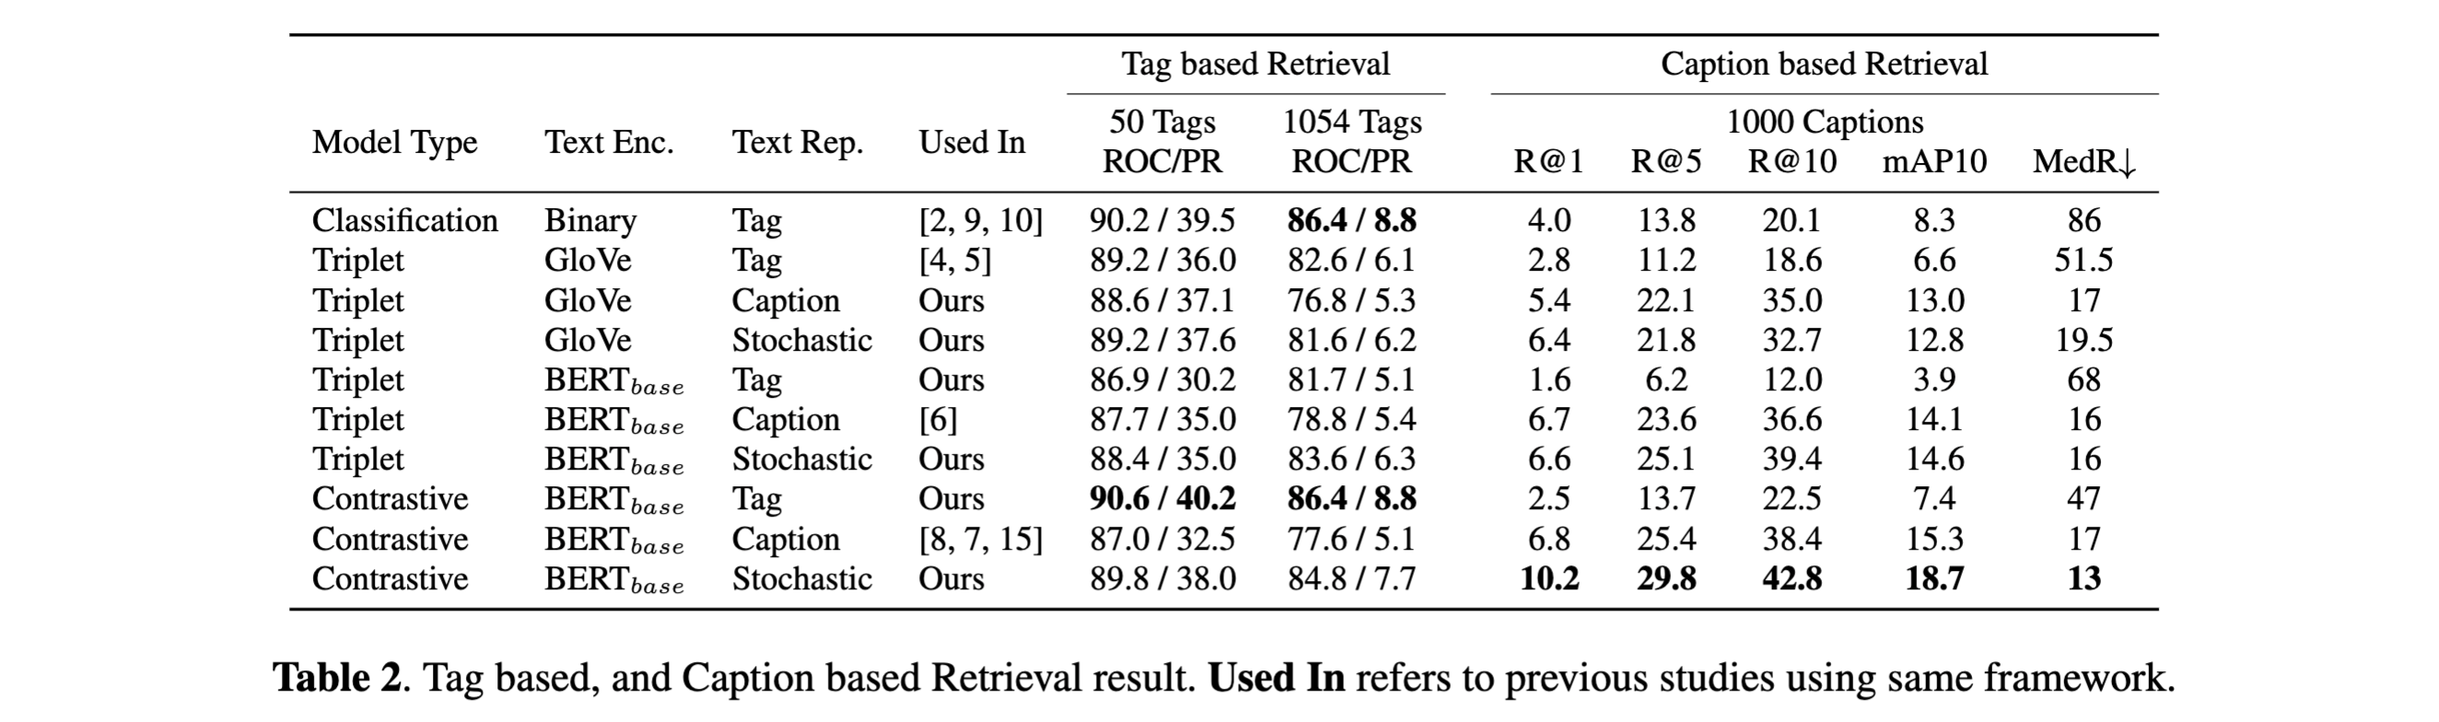
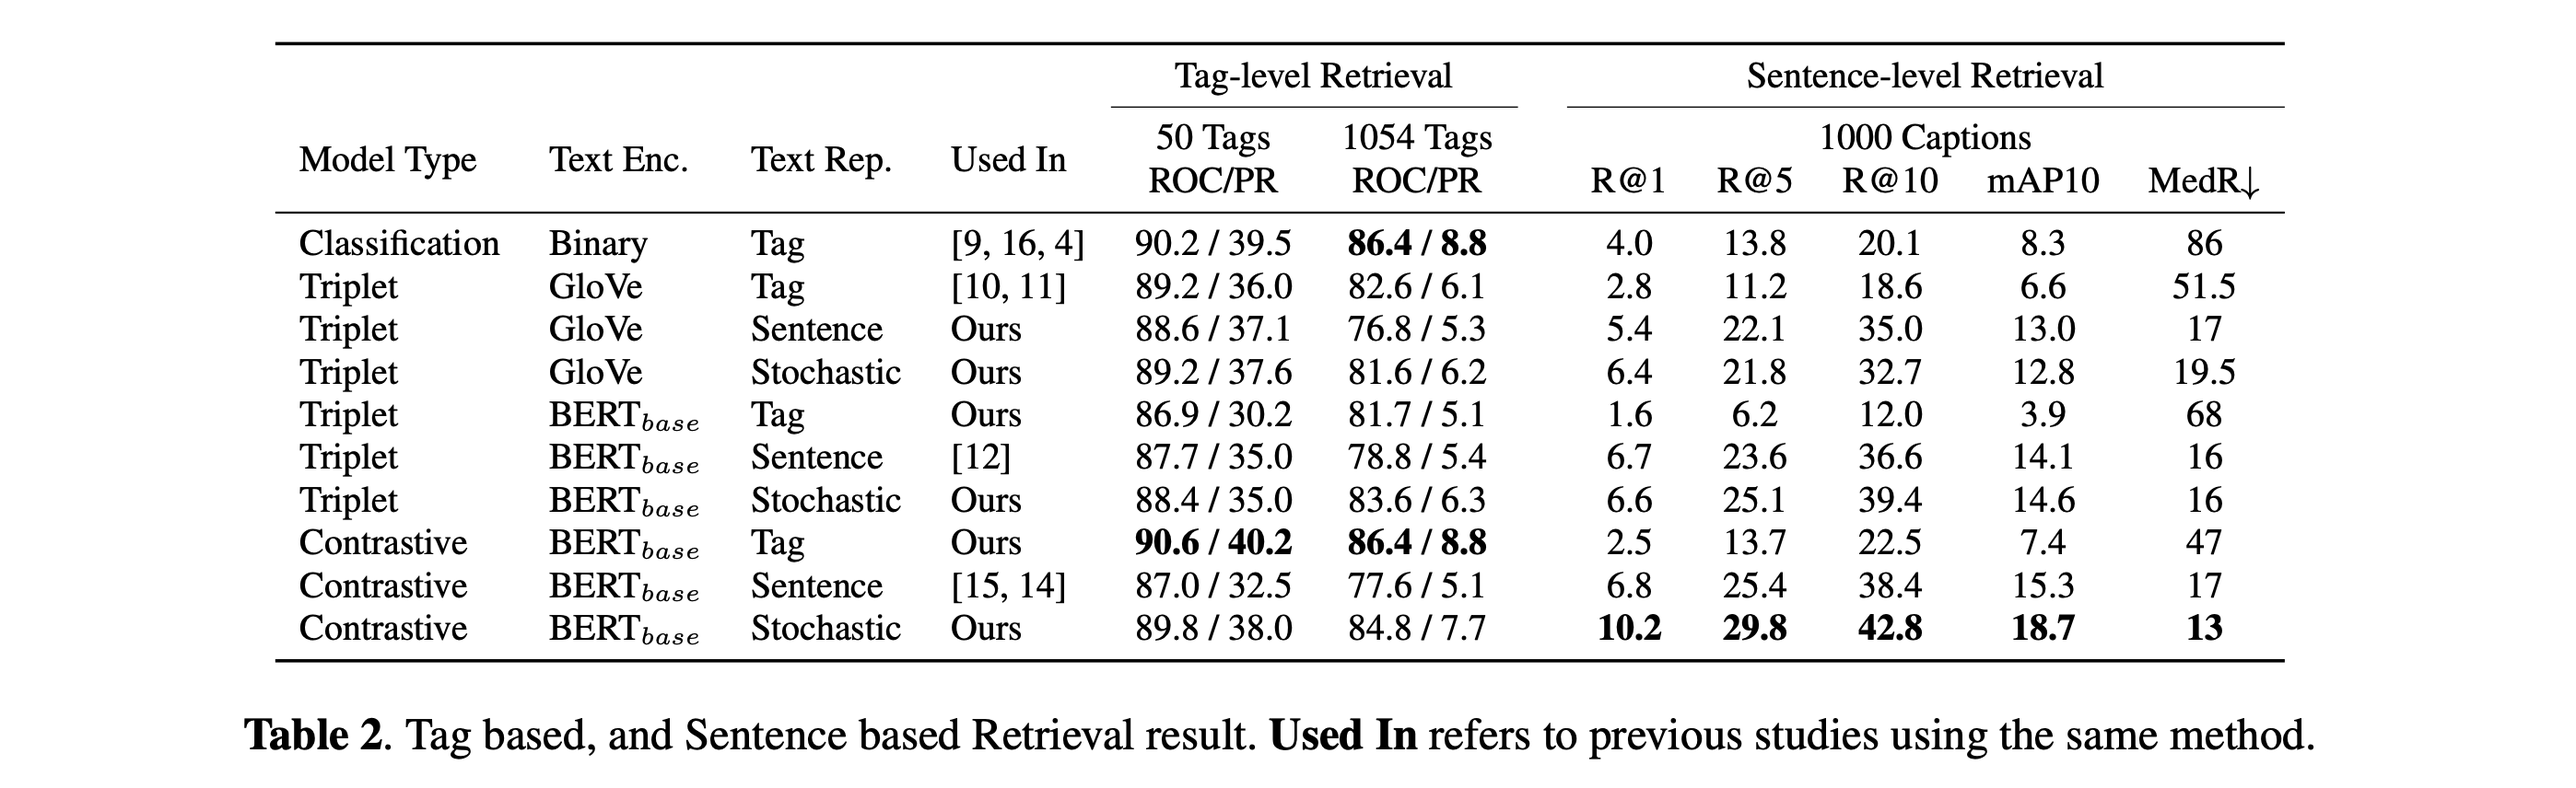
update

Changed region(s): [[0.0929, 0.0306, 0.898, 0.8571], [0.0929, 0.8878, 0.898, 0.9796]]

diff --git a/index.html b/index.html
@@ -137,11 +137,11 @@
                 <h3>Toward Universal Text-to-Music Retrieval</h3>
                     <pre><code>Toward unified text-music representation learning, ICASSP 2023 (submitted) - SeungHeon Doh, Minz Won, Keunwoo Choi, Juhan Nam
                     </code></pre>
-            <p>This project maps <strong>text {tag, caption}</strong> and <strong>music</strong> to the same embedding space.
+            <p>This project maps <strong>text {tag, sentence}</strong> and <strong>music</strong> to the same embedding space.
                 For the details of the methodology for building the dataset, please refer to our paper.</p>
             <ul>
                 <!-- <li><a href="">Paper on Arxiv</a>(will be updated)</li> -->
-                <li>Paper on Arxiv (will be updated)</li>
+                <li><a href="https://arxiv.org/abs/2211.14558">Paper on Arxiv</a></li>
                 <li><a href="https://github.com/seungheondoh/music-text-representation">Implementation Code</a></li>
                 <li><a href="https://github.com/seungheondoh/msd-subsets">Dataset Code</a></li>
                 <li><a href="https://zenodo.org/record/7322135">Pre-trained model on Zenodo</a></li>
@@ -150,7 +150,7 @@
 
             <h4>Motivation</h4>
             <p>
-                Generalizable text-based music retrieval systems need to cover both tag-based and caption-based queries. For example, ordinary listeners use simple tag-based queries to explore music libraries. Music creators may use caption-based queries to retrieve more specific types of music. Content creators use content descriptions (less musical and often include unseen tags) to retrieve suitable music that matches their media content, such as photos and videos. 
+                Generalizable text-based music retrieval systems need to cover both tag-based and sentence-based queries. For example, ordinary listeners use simple tag-based queries to explore music libraries. Music creators may use sentence-based queries to retrieve more specific types of music. Content creators use content descriptions (less musical and often include unseen tags) to retrieve suitable music that matches their media content, such as photos and videos. 
             </p>
             <img class="blog_contents" src="assets/img/main.png" alt="text_to_music"/> 
             <p>
@@ -158,18 +158,18 @@
             Our reusable insights are summarized as follows:
             </p>
             <ul>
-                <li>For tags and caption query, use stochastic text representations. </li>
+                <li>For tags and sentence query, use stochastic text representations. </li>
                 <li>For robust to unseen query, use contrastive loss. </a></li>
-                <li>For caption query (Specifically), use BERT text encoder. </a></li>
+                <li>For sentence query (Specifically), use BERT text encoder. </a></li>
             </ul>
             
             <h4>Demo</h4>
-                <p> The music pool in the demo was a test-set of the ECALS dataset. All samples were not used in the training phase. For space reasons, we compare tag, caption and stochastic representations using the contrastive framework.
+                <p> The music pool in the demo was a test-set of the ECALS dataset. All samples were not used in the training phase. For space reasons, we compare tag, sentence and stochastic representations using the contrastive framework.
                 </p>
-                <p><strong>The key message of the demo is:</strong> the stochastic model shows robust search performance for tag, caption, and unseen queries. Contrary to this, the caption model has poor search performance for low popular specific instruments, such as banjo. The tag model is difficult to search for combinations in various semantics such as fusion jazz with synth, bass, drums, and saxophone.</p>
+                <p><strong>The key message of the demo is:</strong> the stochastic model shows robust search performance for tag, sentence, and unseen queries. Contrary to this, the sentence model has poor search performance for low popular specific instruments, such as banjo. The tag model is difficult to search for combinations in various semantics such as fusion jazz with synth, bass, drums, and saxophone.</p>
                 <hr/>
 
-                <p><b>fusion jazz with synth, bass, drums, saxophone</b> (Caption Query)</p>
+                <p><b>fusion jazz with synth, bass, drums, saxophone</b> (Sentence Query)</p>
                 <table>
                     <tr>
                         <th> Model </th>
@@ -190,7 +190,7 @@
                         <th> <small>energetic, sophisticated, day driving, exuberant, searching, bright, bravado, intense, passionate, rollicking, confident, hard bop, ...</small> </th>
                     </tr>
                     <tr> 
-                        <th> Contrastive-BERT-Caption </th>
+                        <th> Contrastive-BERT-Sentence </th>
                         <th> <audio controls id="player" onplay="pauseOthers(this);"><source src="assets/audios/caption/mq.mp3" type="audio/mpeg"></audio> </th>
                         <th> <audio controls id="player" onplay="pauseOthers(this);"><source src="assets/audios/caption/mq (1).mp3" type="audio/mpeg"></audio> </th>
                         <th> <audio controls id="player" onplay="pauseOthers(this);"><source src="assets/audios/caption/mq (2).mp3" type="audio/mpeg"></audio> </th>
@@ -237,7 +237,7 @@
                         <th> <small>weary, passionate, reserved, reflection, contemporary folk, delicate, banjo, somber, earthy, autumnal, rustic, intimate, folk, acoustic, ...</small> </th>
                     </tr>
                     <tr> 
-                        <th> Contrastive-BERT-Caption </th>
+                        <th> Contrastive-BERT-Sentence </th>
                         <th> <audio controls id="player" onplay="pauseOthers(this);"><source src="assets/audios/caption/banjo.mp3" type="audio/mpeg"></audio> </th>
                         <th> <audio controls id="player" onplay="pauseOthers(this);"><source src="assets/audios/caption/banjo (1).mp3" type="audio/mpeg"></audio> </th>
                         <th> <audio controls id="player" onplay="pauseOthers(this);"><source src="assets/audios/caption/banjo (2).mp3" type="audio/mpeg"></audio> </th>
@@ -284,7 +284,7 @@
                         <th> <small>pop rock, melancholy, dark, psychedelic</small> </th>
                     </tr>
                     <tr> 
-                        <th> Contrastive-BERT-Caption </th>
+                        <th> Contrastive-BERT-Sentence </th>
                         <th> <audio controls id="player" onplay="pauseOthers(this);"><source src="assets/audios/caption/zs.mp3" type="audio/mpeg"></audio> </th>
                         <th> <audio controls id="player" onplay="pauseOthers(this);"><source src="assets/audios/caption/zs (1).mp3" type="audio/mpeg"></audio> </th>
                         <th> <audio controls id="player" onplay="pauseOthers(this);"><source src="assets/audios/caption/zs (2).mp3" type="audio/mpeg"></audio> </th>
@@ -312,7 +312,7 @@
 
             
             <h4>Abstract</h4>
-            <p>This paper introduces effective design choices of unified multimodal representation learning for text-to-music retrieval. We propose a benchmark that includes ten downstream tasks, carefully review existing approaches through a holistic evaluation, then summarize our findings to deliver reusable insights. We found that tag-level and caption-level text representations are helpful for single-query and multi-query music retrieval, respectively. Thus we leverage both advantages by using a stochastic sampling method. Also, we found that contrastive-based models show more robust performance for unseen query retrieval and probing tasks. Based on these findings, the proposed approach achieves state-of-the-art performance across different music semantic understanding tasks.
+            <p>This paper introduces effective design choices of unified multimodal representation learning for text-to-music retrieval. We propose a benchmark that includes ten downstream tasks, carefully review existing approaches through a holistic evaluation, then summarize our findings to deliver reusable insights. We found that tag-level and sentence-level text representations are helpful for single-query and multi-query music retrieval, respectively. Thus we leverage both advantages by using a stochastic sampling method. Also, we found that contrastive-based models show more robust performance for unseen query retrieval and probing tasks. Based on these findings, the proposed approach achieves state-of-the-art performance across different music semantic understanding tasks.
             </p>
         
         
@@ -321,7 +321,7 @@
             <p>
             From our empirical study, we find that there is a strong association between text representation (train stage) and text query types (test stage). 
             As somewhat obviously, the model works better when the input forms during the training phase and test phase are homogeneous, there are no references studying the relationship between text representation and retrieval performance. 
-            To use the advantages of both, we propose a stochastic text representation. During the training stage, we select <strong>K</strong> words from <strong>L</strong> length text caption. At this time, <strong>K</strong> is uniformly randomly sampled among integer numbers from <b>1</b> (tag length) to <b>L</b> (caption length). Unlike the dropout method, which determines the length by probability value, stochastic sampling has a dynamic input length.
+            To use the advantages of both, we propose a stochastic text representation. During the training stage, we select <strong>K</strong> words from <strong>L</strong> length text sentence. At this time, <strong>K</strong> is uniformly randomly sampled among integer numbers from <strong>1</strong> (tag length) to <strong>L</strong> (sentence length). Unlike the dropout method, which determines the length by probability value, stochastic sampling has a dynamic input length.
             </p>
             <img class="blog_contents" src="assets/img/sampler.png" alt="framework"/> 
 
@@ -350,18 +350,18 @@
 
             <h4>Results</h4>
             <p>
-            Table show the tag and caption-based retrieval results. The stochastic representation model achieves competitive results in both tasks. In caption-based retrieval, it outperforms the caption representation model, but in tag-based retrieval, it performs closely to the tag representation model. This is because the dynamic length text representation encompasses both tag and caption embedding space. See our paper for more results on different benchmarks, including MTAT, MTG-Jamendo, FMA, GTZAN, Emotify, KVT.
+            Table show the tag and sentence-based retrieval results. The stochastic representation model achieves competitive results in both tasks. In sentence-based retrieval, it outperforms the sentence representation model, but in tag-based retrieval, it performs closely to the tag representation model. This is because the dynamic length text representation encompasses both tag and sentence embedding space. See our paper for more results on different benchmarks, including MTAT, MTG-Jamendo, FMA, GTZAN, Emotify, KVT.
             </p>
             <img class="blog_contents" src="assets/img/table.png" alt="table"/> 
 
             <h4>Visualization</h4>
             <img src="assets/img/viz.png" width="50%" style="float: right;"/>
             <p>
-                MultiModal embedding spaces are projected to a 2D space using uniform manifold approximation and projection (UMAP). We fit UMAP with music, tag, caption embeddings, then projected all embeddings into the 2D space. For each dataset, 1000 tag-caption pairs and 1054 tags used for evaluation were used.
-                The first row uses a triplet framework with GloVe model. The second row uses a same triplet framework. with BERT model The last row uses a contrastive framework with BERT model. The contrastive model shows a more significant semantic gap than the other models. However, compared with the above results, it is difficult to see the relationship between the semantic gap and performance. Compared with the triplet, the stochastic model shows a smaller semantic gap than other tag and caption models, and we interpret that each modality is mixed up. In the second column, the caption-based model, the interesting part is that tag embeddings are isolated. This supports the example in the table above where caption models showed low performance in tag-based retrieval. Contrary to this, caption and tag are mixed up in tag-based model. However, since tags are a component of caption embedding, we do not assume that the model captures the relationship between the two.
+                MultiModal embedding spaces are projected to a 2D space using uniform manifold approximation and projection (UMAP). We fit UMAP with music, tag, sentence embeddings, then projected all embeddings into the 2D space. For each dataset, 1000 tag-caption pairs and 1054 tags used for evaluation were used.
+                The first row uses a triplet framework with GloVe model. The second row uses a same triplet framework. with BERT model The last row uses a contrastive framework with BERT model. The contrastive model shows a more significant semantic gap than the other models. However, compared with the above results, it is difficult to see the relationship between the semantic gap and performance. Compared with the triplet, the stochastic model shows a smaller semantic gap than other tag and sentence models, and we interpret that each modality is mixed up. In the second column, the sentence-based model, the interesting part is that tag embeddings are isolated. This supports the example in the table above where sentence models showed low performance in tag-based retrieval. Contrary to this, sentence and tag are mixed up in tag-based model. However, since tags are a component of sentence embedding, we do not assume that the model captures the relationship between the two.
             </p>
             <h4>Conclusion</h4>
-            <p>In this paper, we introduce effective design choices of generalizable multimodal representation learning for text-to-music retrieval. For the first time, we reveal relationship between text representation and retrieval performance through systematic experiments. Based on the finding, we propose efficient stochastic text representation. The proposed stochastic text representation show robust performance in tag-based, caption-based, and zero-shot query retrieval cases and state-of-the-art performance on three datasets.
+            <p>In this paper, we introduce effective design choices of generalizable multimodal representation learning for text-to-music retrieval. For the first time, we reveal relationship between text representation and retrieval performance through systematic experiments. Based on the finding, we propose efficient stochastic text representation. The proposed stochastic text representation show robust performance in tag-based, sentence-based, and zero-shot query retrieval cases and state-of-the-art performance on three datasets.
             </p>
         </main>
         <div class="footer"></div>
